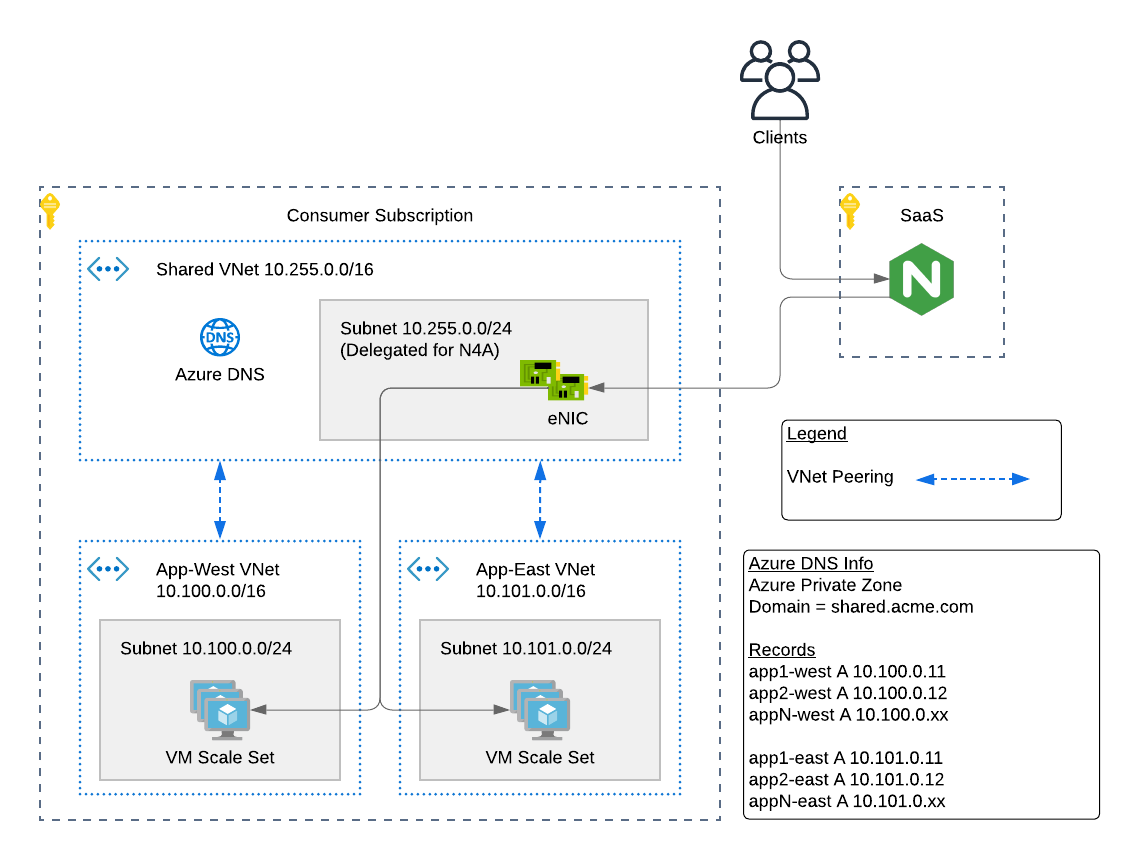
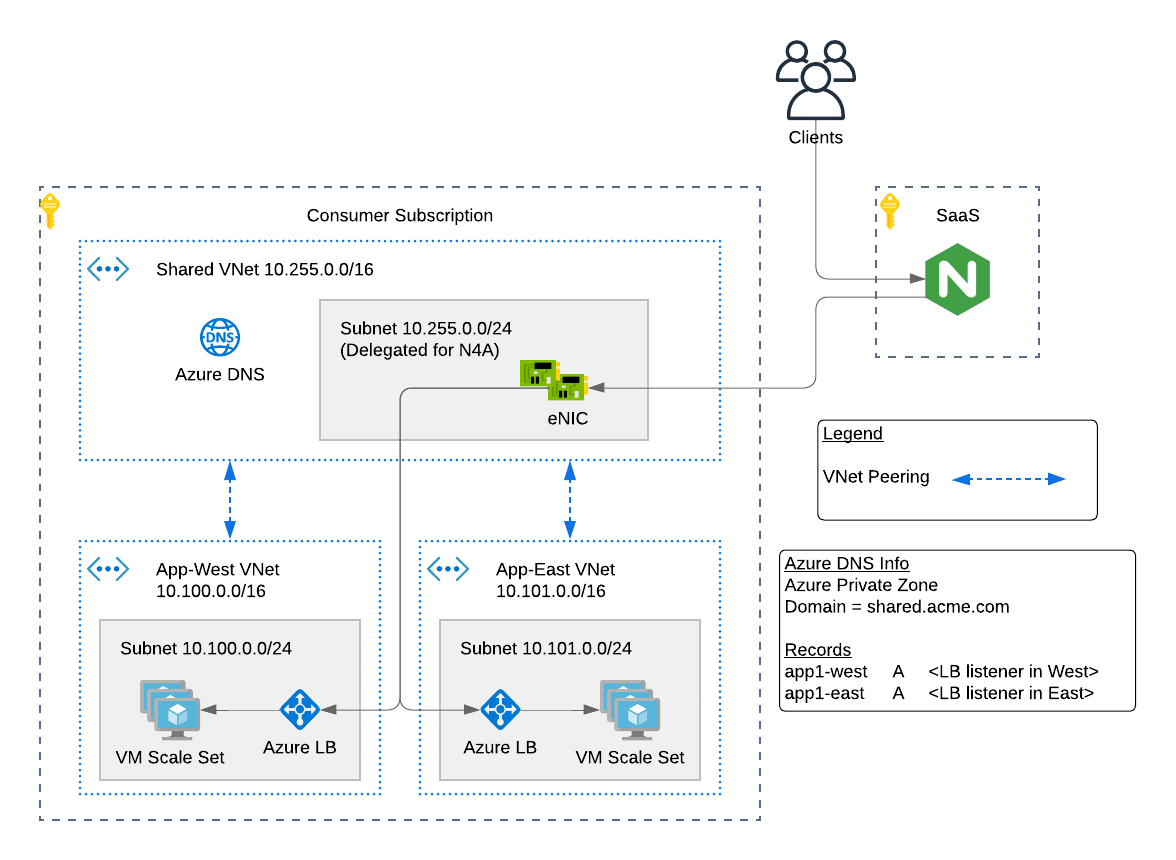
dns and lb updates

diff --git a/solutions/delivery/application_delivery_controller/nginx/nginx-for-azure/README.md b/solutions/delivery/application_delivery_controller/nginx/nginx-for-azure/README.md
@@ -169,8 +169,13 @@ No Modules.
 
 | Name |
 |------|
+| [azurerm_lb](https://registry.terraform.io/providers/hashicorp/azurerm/latest/docs/resources/lb) |
+| [azurerm_lb_backend_address_pool](https://registry.terraform.io/providers/hashicorp/azurerm/latest/docs/resources/lb_backend_address_pool) |
+| [azurerm_lb_probe](https://registry.terraform.io/providers/hashicorp/azurerm/latest/docs/resources/lb_probe) |
+| [azurerm_lb_rule](https://registry.terraform.io/providers/hashicorp/azurerm/latest/docs/resources/lb_rule) |
 | [azurerm_linux_virtual_machine_scale_set](https://registry.terraform.io/providers/hashicorp/azurerm/latest/docs/resources/linux_virtual_machine_scale_set) |
 | [azurerm_network_security_group](https://registry.terraform.io/providers/hashicorp/azurerm/latest/docs/resources/network_security_group) |
+| [azurerm_private_dns_a_record](https://registry.terraform.io/providers/hashicorp/azurerm/latest/docs/resources/private_dns_a_record) |
 | [azurerm_private_dns_zone](https://registry.terraform.io/providers/hashicorp/azurerm/latest/docs/resources/private_dns_zone) |
 | [azurerm_private_dns_zone_virtual_network_link](https://registry.terraform.io/providers/hashicorp/azurerm/latest/docs/resources/private_dns_zone_virtual_network_link) |
 | [azurerm_resource_group](https://registry.terraform.io/providers/hashicorp/azurerm/latest/docs/resources/resource_group) |
